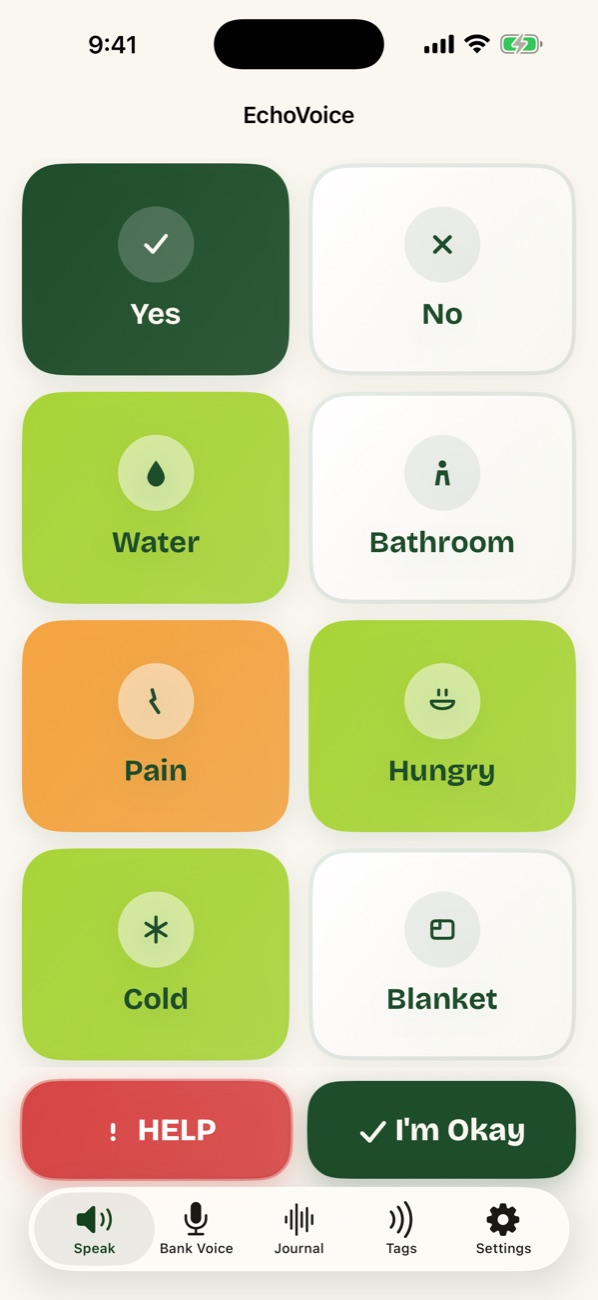
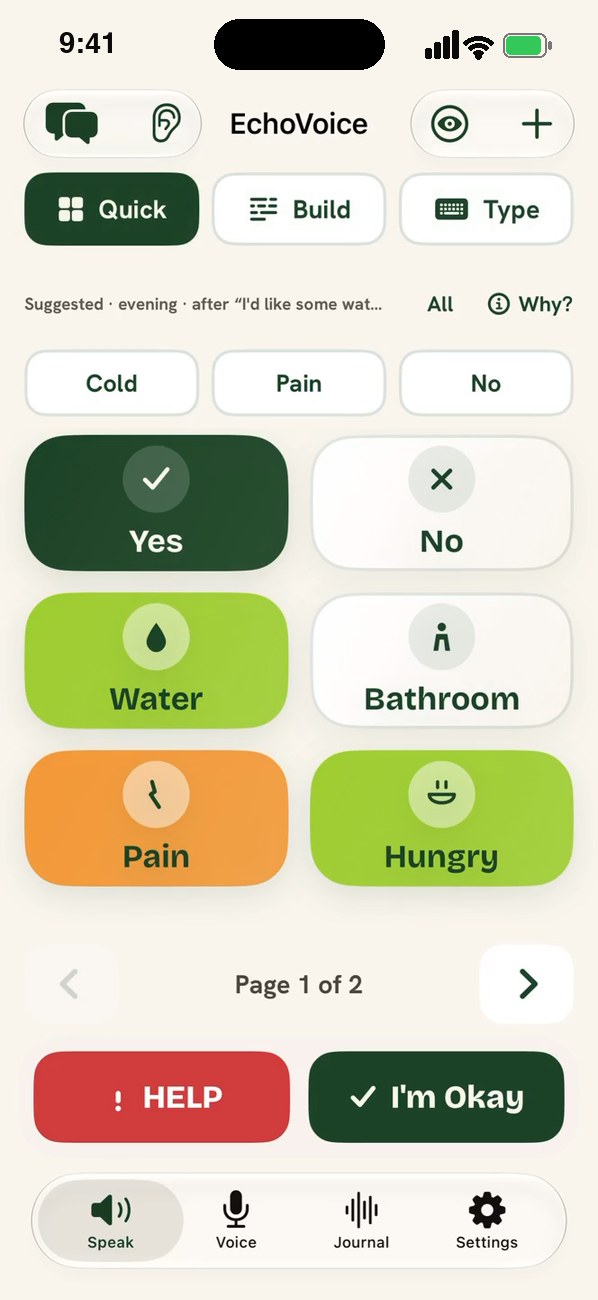
feat: use current Quick/Build/Type screens from screen recordings
Replaces the old Speak-grid screenshots and the Personal Voice error shot,
and re-aims the hero tap demo at the new tile positions.

diff --git a/docs/index.html b/docs/index.html
@@ -60,8 +60,8 @@
         <p>The words you need most are one tap away. Everything else is a sentence or a keyboard away.</p>
       </header>
       <div class="duo" data-scrub>
-        <figure class="iphone duo-back"><img src="assets/shots/iphone-4-settings.jpg" alt="EchoVoice settings: access modes, voice and board density" width="598" height="1300" loading="lazy"></figure>
-        <figure class="iphone duo-front"><img src="assets/shots/iphone-1-board.jpg" alt="EchoVoice board with Yes, No, Water, Bathroom, Pain, Hungry, Cold, Blanket, HELP and I'm Okay" width="598" height="1300" loading="lazy"></figure>
+        <figure class="iphone duo-back"><img src="assets/shots/iphone-4-settings.jpg" alt="EchoVoice Build tab: the sentence I want cool water being spoken" width="598" height="1300" loading="lazy"></figure>
+        <figure class="iphone duo-front"><img src="assets/shots/iphone-1-board.jpg" alt="EchoVoice Quick tab with Yes, No, Water, Bathroom, Pain, Hungry, HELP and I'm Okay" width="598" height="1300" loading="lazy"></figure>
         <span class="sticker s-tile-a pop" style="--r:-10deg"><svg><use href="#st-yes"/></svg></span>
         <span class="sticker s-tile-b pop" style="--r:8deg"><svg><use href="#st-pain"/></svg></span>
       </div>
@@ -77,7 +77,7 @@
       <h2 class="mega pop">Bank <span class="inline-wave" aria-hidden="true"><i></i><i></i><i></i><i></i><i></i><i></i><i></i></span> your voice</h2>
       <p class="lead pop">Record the phrases that matter while you still can. Later, one tap plays your real recording, not a robot. Apple Personal Voice fills in the rest.</p>
       <div class="bank-stage">
-        <figure class="iphone bank-phone slide-up"><img src="assets/shots/iphone-2-banking.jpg" alt="Message Banking screen listing phrases to record in your own voice" width="598" height="1300" loading="lazy"></figure>
+        <figure class="iphone bank-phone slide-up"><img src="assets/shots/iphone-2-banking.jpg" alt="Setup screen: Your Personal Voice is ready, EchoVoice will speak in your own voice" width="598" height="1300" loading="lazy"></figure>
         <div class="quote-card q1 pop"><span class="play"><svg class="i"><use href="#i-play"/></svg></span><div><b>"Goodnight, kiddo."</b><small>Your voice · recorded March</small></div></div>
         <div class="quote-card q2 pop"><span class="play"><svg class="i"><use href="#i-play"/></svg></span><div><b>"Love you more."</b><small>Your voice · recorded March</small></div></div>
         <span class="sticker s-bank-mic pop" style="--r:14deg"><svg><use href="#st-mic"/></svg></span>
@@ -109,7 +109,7 @@
       <div class="bento">
         <article class="tile b-voice pop">
           <div class="b-art crop-phone"><img src="assets/shots/iphone-2-banking.jpg" alt="" width="598" height="1300" loading="lazy"></div>
-          <p>Message banking in your real voice</p>
+          <p>Set up your own voice in minutes</p>
         </article>
 
         <article class="tile b-suggest pop">

diff --git a/docs/site.js b/docs/site.js
@@ -8,12 +8,12 @@ document.querySelectorAll(".stage .sticker").forEach((el, i) => el.style.setProp
 /* Hero demo: a finger taps a tile on the real board screenshot, and what it
    says pops out beside the phone. Positions are tile centres in the screenshot. */
 const TAPS = [
-  { x: 27, y: 38.5, say: "Can I have some water?" },
-  { x: 73, y: 21, say: "No." },
-  { x: 27, y: 56, say: "I'm in pain." },
-  { x: 73, y: 56, say: "I'm hungry." },
-  { x: 27, y: 21, say: "Yes." },
-  { x: 73, y: 87, say: "I'm okay." },
+  { x: 26, y: 50.8, say: "Can I have some water?" },
+  { x: 73.6, y: 38.5, say: "No." },
+  { x: 26, y: 63, say: "I'm in pain." },
+  { x: 73.6, y: 63, say: "I'm hungry." },
+  { x: 26, y: 38.5, say: "Yes." },
+  { x: 73, y: 84, say: "I'm okay." },
 ];
 const tap = document.getElementById("tap");
 const said = document.getElementById("said");
